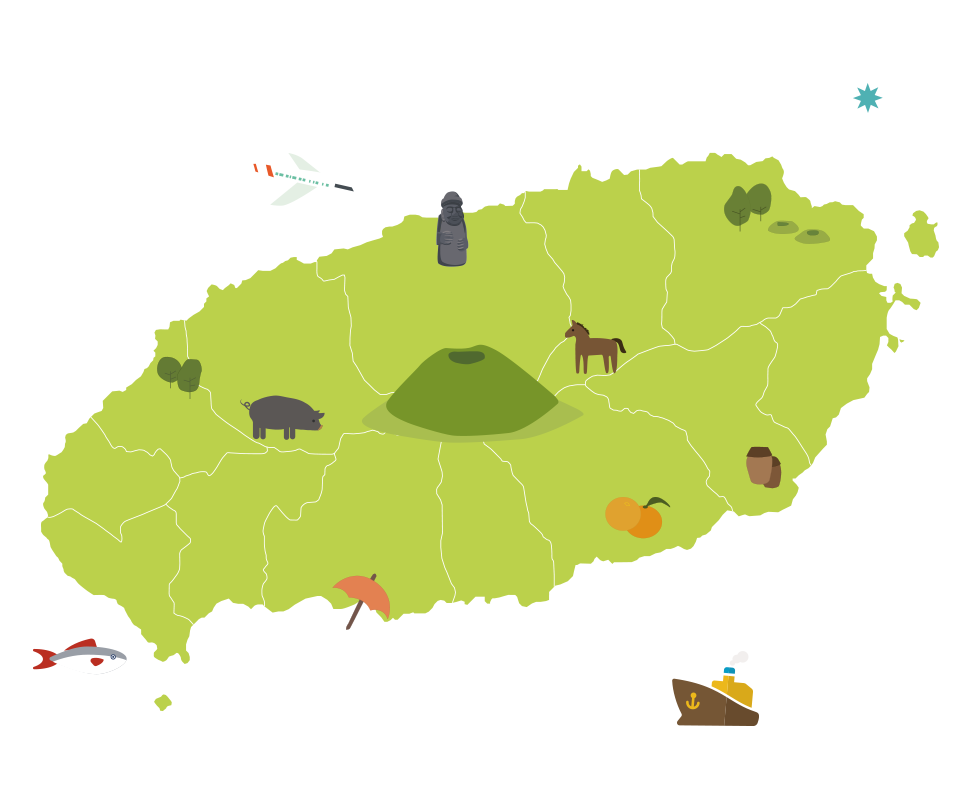
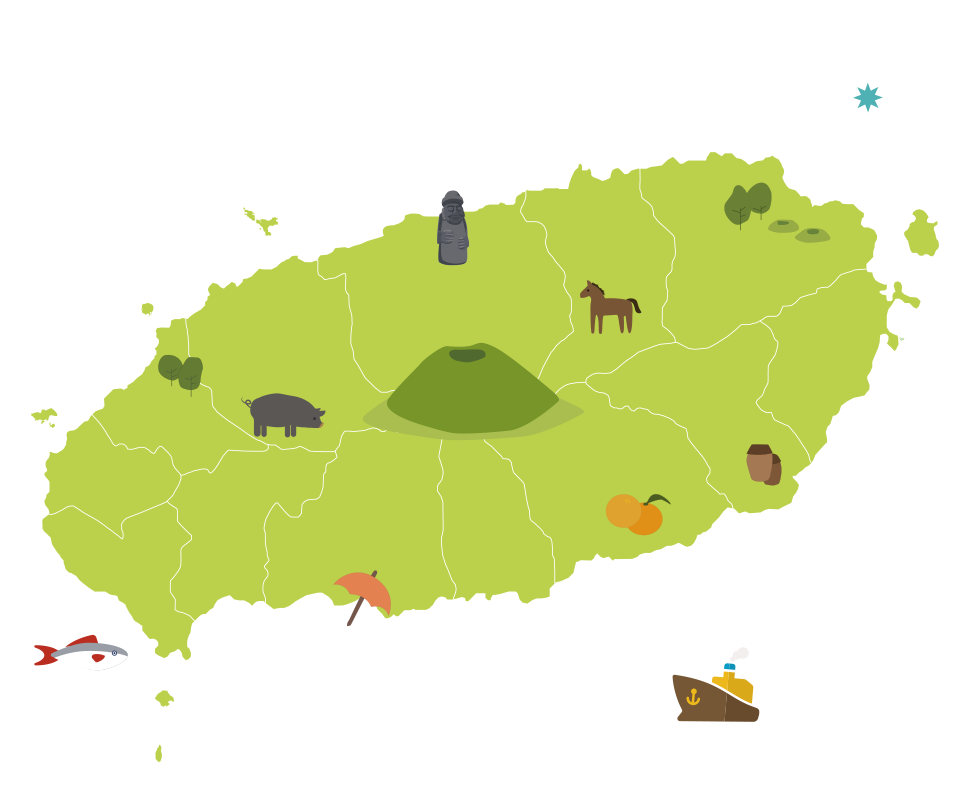
main & view

diff --git a/appNew/css/common.css b/appNew/css/common.css
@@ -580,7 +580,7 @@ body.main .mainMap {
     display: inline-block;
     position: relative;
     width: 100%;
-    height: 266.6px;
+    height: 267px;
     overflow: hidden;
     background: url('../images/map.png') no-repeat #4fb1b3 center top / 320px 100%;
 }
@@ -663,6 +663,36 @@ body.main .mainMap li.map13 {
     top: 106px;
 }
 
+body.main .mainMap li.map14 {
+    margin-left: -74px;
+    top: 54px;
+}
+
+body.main .mainMap li.map15 {
+    margin-left: 137px;
+    top: 54px;
+}
+
+body.main .mainMap li.map16 {
+    margin-left: -100px;
+    top: 220px;
+}
+
+body.main .mainMap li.map17 {
+    margin-left: -152px;
+    top: 240px;
+}
+
+body.main .mainMap li.map18 {
+    margin-left: -166px;
+    top: 116px;
+}
+
+body.main .mainMap li.map19 {
+    margin-left: -166px;
+    top: 86px;
+}
+
 body.main .mainMap li.active {
     background: #50692F;
     padding: 2px 10px;
@@ -692,8 +722,8 @@ body.main .mainMap div.weather02 {
 }
 
 body.main .mainMap div.weather03 {
-    margin-left: -160px;
-    top: 64px;
+    margin-left: -174px;
+    top: 40px;
 }
 
 body.main .mainMap div.weather04 {
@@ -2319,6 +2349,23 @@ div.talk dt {
     float: left;
     margin-left: 0.938rem;
     margin-top: 0
+}
+
+div.talk dt i {
+    display: block;
+    position: absolute;
+    right: -4px;
+    bottom: -4px;
+    width: 24px;
+    height: 24px;
+    border-radius: 50%;
+    font-size: 0;
+    color: transparent;
+    background: url(../images/listLogo.png) no-repeat #2AC1BC center /100%;
+}
+
+div.talk dt i.vjeju {
+    background: url(../images/listLogo.png) no-repeat #ef8200 center /100%;
 }
 
 div.talk dd {

diff --git a/appNew/view.html b/appNew/view.html
@@ -143,28 +143,28 @@
 			<div class="article review talk">
 				<h4>리뷰<hr></h4>
 				<dl>
-					<dt><img src="./images/noPhoto.jpg"></dt>
+					<dt><img src="./images/noPhoto.jpg"><i class="campaign">여행공유 댓글</i></dt>
 					<dd>
 						<p class="name">김제주 <small>3분전</small></p>
 						<p class="text">
 							제주도 맛집 좀 알려주세요
 						</p>
 					</dd>
-					<dt><img src="./images/noPhoto.jpg"></dt>
+					<dt><img src="./images/noPhoto.jpg"><i class="vjeju">Visit JEJU 댓글</i></dt>
 					<dd>
 						<p class="name">김안나 <small>2시간전</small></p>
 						<p class="text">
 							제주시 웰컴센터 뒤쪽에 바르의 주방이라는 식당 강추해요! 연어덮밥하고 김치치즈돈까스나베 완전 맛나요!
 						</p>
 					</dd>
-					<dt><img src="./images/noPhotoEx.jpg"></dt>
+					<dt><img src="./images/noPhotoEx.jpg"><i class="vjeju">Visit JEJU 댓글</i></dt>
 					<dd>
 						<p class="name">문재인 <small>6시간전</small></p>
 						<p class="text">
 							월정리 가시면 홍돈이 근고기랑 소주한잔 하시고 델문도 카페에서 커피한잔하면 딱임!
 						</p>
 					</dd>
-					<dt><img src="./images/noPhoto.jpg"></dt>
+					<dt><img src="./images/noPhoto.jpg"><i class="campaign">여행공유 댓글</i></dt>
 					<dd>
 						<p class="name">김종인 <small>2016. 06. 05</small></p>
 						<p class="text">

diff --git a/appNew/main.html b/appNew/main.html
@@ -52,6 +52,18 @@
             <li class="map11"><a href="#">한경</a></li>
             <li class="map12"><a href="#">한림</a></li>
             <li class="map13"><a href="#">애월</a></li>
+
+            <li class="map14"><a href="#">추자도</a></li>
+            <li class="map15"><a href="#">우도</a></li>
+            <li class="map16"><a href="#">가파도</a></li>
+            <li class="map17"><a href="#">마라도</a></li>
+            <li class="map18"><a href="#">차귀도</a></li>
+            <li class="map19"><a href="#">비양도</a></li>
+
+
+
+
+
         </ul>
         <div class="weather01">
             <h2 class="sr-only">북부날씨</h2>
